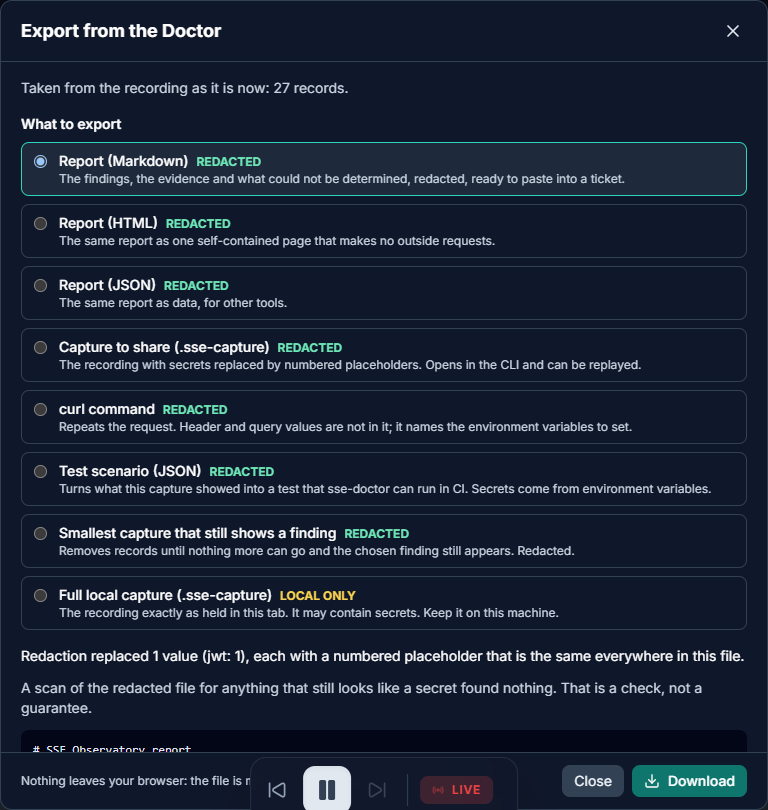
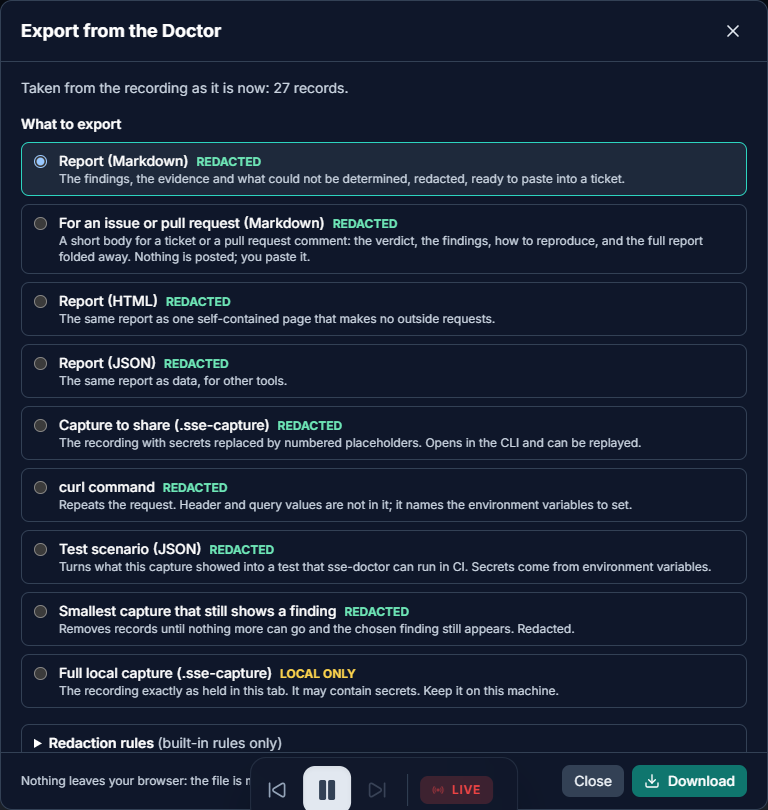
Docs for 2.0.0: clean documentation URLs (the README's docs links were 404 on the hosted site), What's new page, getting started, README testing and re-measured performance, refreshed Doctor screenshots, and a live smoke test (npm run smoke:live)

Changed region(s): [[0.0312, 0.2469, 0.9688, 0.9259]]

diff --git a/src/tests/docsSite.test.ts b/src/tests/docsSite.test.ts
@@ -1,0 +1,99 @@
+// @vitest-environment node
+import { spawn, type ChildProcess } from 'node:child_process'
+import fs from 'node:fs'
+import net from 'node:net'
+import os from 'node:os'
+import path from 'node:path'
+import { afterAll, beforeAll, describe, expect, it } from 'vitest'
+
+// The live check of the hosted site (scripts/live-smoke.mjs, v2.0.0 release) found that the README and the docs link to pages WITHOUT ".html"
+// (https://sse-observatory.vercel.app/docs/technical/limitations) and that the hosted site answered 404 for every one of them: VitePress writes
+// limitations.html, and neither Vercel nor the Express server served a file without its extension. The documentation links are clean URLs, so the hosts
+// must serve them: Vercel with "cleanUrls", the Express server (the Docker image and `npm start`) with static "extensions". The server test runs
+// the real server.js over a small built site.
+
+const root = process.cwd()
+const read = (p: string): string => fs.readFileSync(path.join(root, p), 'utf8')
+
+describe('the documentation links are clean URLs, so the hosts serve them without .html', () => {
+    it('Vercel serves a .html file at its clean URL', () => {
+        expect(JSON.parse(read('vercel.json')).cleanUrls).toBe(true)
+    })
+
+    it('VitePress writes its own links as clean URLs', () => {
+        expect(read('docs/.vitepress/config.mts')).toMatch(/cleanUrls:\s*true/)
+    })
+
+    it('every link to the hosted documentation in the README and the docs points at a page that exists', () => {
+        const pages = new Set<string>()
+        const walk = (dir: string): void => {
+            for (const entry of fs.readdirSync(path.join(root, dir), { withFileTypes: true })) {
+                if (entry.name === '.vitepress' || entry.name === 'node_modules') continue
+                const rel = `${dir}/${entry.name}`
+                if (entry.isDirectory()) walk(rel)
+                else if (entry.name.endsWith('.md')) pages.add(rel.replace(/^docs\//, '').replace(/\.md$/, '').replace(/(^|\/)index$/, '$1'))
+            }
+        }
+        walk('docs')
+        // files in docs/public are served as they are, at /docs/<their path>
+        const walkPublic = (dir: string): void => {
+            for (const entry of fs.readdirSync(path.join(root, dir), { withFileTypes: true })) {
+                const rel = `${dir}/${entry.name}`
+                if (entry.isDirectory()) walkPublic(rel)
+                else pages.add(rel.replace(/^docs\/public\//, ''))
+            }
+        }
+        walkPublic('docs/public')
+        const files = ['README.md', ...[...pages].filter((p) => fs.existsSync(path.join(root, `docs/${p === '' || p.endsWith('/') ? `${p}index` : p}.md`))).map((p) => `docs/${p === '' || p.endsWith('/') ? `${p}index` : p}.md`)]
+        const broken: string[] = []
+        for (const file of files) {
+            const text = read(file)
+            for (const m of text.matchAll(/https:\/\/sse-observatory\.vercel\.app\/docs\/([A-Za-z0-9_\-./]*)/g)) {
+                const target = m[1]!.replace(/\.html$/, '').replace(/\/$/, '')
+                if (target !== '' && !pages.has(target)) broken.push(`${file}: /docs/${m[1]}`)
+            }
+        }
+        expect(broken).toEqual([])
+    })
+})
+
+describe('server.js serves the built documentation at clean URLs', () => {
+    let server: ChildProcess
+    let base = ''
+    let site = ''
+    const freePort = () => new Promise<number>((resolve) => {
+        const s = net.createServer()
+        s.listen(0, '127.0.0.1', () => { const { port } = s.address() as net.AddressInfo; s.close(() => resolve(port)) })
+    })
+
+    beforeAll(async () => {
+        site = fs.mkdtempSync(path.join(os.tmpdir(), 'docs-site-'))
+        fs.mkdirSync(path.join(site, 'dist', 'docs', 'guide'), { recursive: true })
+        fs.writeFileSync(path.join(site, 'dist', 'index.html'), '<!doctype html><title>the app</title>')
+        fs.writeFileSync(path.join(site, 'dist', 'docs', 'index.html'), '<!doctype html><title>docs home</title>')
+        fs.writeFileSync(path.join(site, 'dist', 'docs', 'guide', 'cli.html'), '<!doctype html><title>the cli guide</title>')
+        const port = await freePort()
+        base = `http://127.0.0.1:${port}`
+        server = spawn(process.execPath, [path.join(root, 'server.js')], { cwd: site, env: { ...process.env, NODE_ENV: 'production', PORT: String(port) }, stdio: 'ignore' })
+        for (let i = 0; i < 200; i++) {
+            try { await fetch(`${base}/healthz`); return } catch { await new Promise((r) => setTimeout(r, 250)) }
+        }
+        throw new Error('server.js did not start')
+    }, 60_000)
+    afterAll(() => { server?.kill() })
+
+    const title = async (p: string): Promise<{ status: number; title: string }> => {
+        const r = await fetch(`${base}${p}`)
+        return { status: r.status, title: /<title>([^<]*)<\/title>/.exec(await r.text())?.[1] ?? '' }
+    }
+
+    it('a page without its extension is the page, not the app', async () => {
+        expect(await title('/docs/guide/cli')).toEqual({ status: 200, title: 'the cli guide' })
+    })
+
+    it('the same page with its extension, the docs home and the app itself are unchanged', async () => {
+        expect(await title('/docs/guide/cli.html')).toEqual({ status: 200, title: 'the cli guide' })
+        expect(await title('/docs/')).toEqual({ status: 200, title: 'docs home' })
+        expect(await title('/')).toEqual({ status: 200, title: 'the app' })
+    })
+})

diff --git a/server.js b/server.js
@@ -58,7 +58,8 @@ app.get('/api/mock/stream', (req, res) => handleMockStream(req, res, { config })
 
 // Serve the built frontend in production
 if (config.production) {
-    app.use(express.static(path.join(process.cwd(), 'dist')))
+    // `extensions: ['html']`: the documentation is linked without ".html" (docs/guide/cli is docs/guide/cli.html), as Vercel's cleanUrls does.
+    app.use(express.static(path.join(process.cwd(), 'dist'), { extensions: ['html'] }))
     app.get('/{*splat}', (req, res, next) => {
         if (req.path.startsWith('/api')) return next()
         res.sendFile(path.join(process.cwd(), 'dist', 'index.html'))

diff --git a/README.md b/README.md
@@ -3,8 +3,10 @@
 <div align="center">
   <img src="./public/logo.png" alt="SSE Observatory Logo" width="160" style="border-radius: 20px;"/>
   <h3>Real-Time Observability for Server-Sent Event Streams</h3>
-  <p><a href="https://sse-observatory.vercel.app">Live demo</a> · <a href="https://sse-observatory.vercel.app/docs/">Documentation</a></p>
+  <p><a href="https://sse-observatory.vercel.app">Live demo</a> · <a href="https://sse-observatory.vercel.app/docs/">Documentation</a> · <a href="https://github.com/Ujjwaljain16/SSE-Observatory/releases/tag/v2.0.0">v2.0.0 release notes</a></p>
 </div>
+
+> **Version 2.0.0 (2026-11-15): the Stream Doctor.** Besides the live viewer, the app now says *why* a stream is stuck, late or losing events, with the evidence, and the `sse-doctor` command line turns a captured failure into a CI test. What changed, and what you may notice: [What's new in 2.0](https://sse-observatory.vercel.app/docs/guide/whats-new). How it was tested, and what was not: [the testing campaign](https://sse-observatory.vercel.app/docs/technical/testing-campaign).
 
 ## 1. Overview of the Problem Solved
 
@@ -90,7 +92,9 @@ What it will not pretend to know (the full list is in [Known limitations](https:
 - **No findings is not proof of health.** Checks that had nothing to look at are listed as *not evaluated*.
 - The app records what happened on the wire, not what events said, so exports hold no event bodies, and a replay uses placeholders of the original size.
 - Captures saved in the browser are not redacted; only an export goes through redaction, and its scan is a check, not a guarantee.
-- The command line is built to be publishable and is not published.
+- The command line is built to be publishable and is not published (the version it reports is 2.0.0; the checklist for the day it is published is [Publishing sse-doctor](https://sse-observatory.vercel.app/docs/technical/publishing)).
+- The scrub the command line applies to its own output recognises the secrets you give it in several encodings, not all of them. [The list](https://sse-observatory.vercel.app/docs/guide/cli) says which, and detection is not complete.
+- The live views show raw values as received (they say so on screen, and copying one asks first); every export is redacted.
 
 ## 4. System Architecture
 
@@ -168,7 +172,7 @@ src/
 lib/                 # Server code shared by Express and Vercel: proxy (guard, streamProxy) and mock replay API
 api/                 # Thin Vercel function adapters
 e2e/                 # Playwright specs
-scripts/             # bench.mjs (benchmarks), screenshots.mjs (README images), docs post-build
+scripts/             # bench.mjs (benchmarks), screenshots.mjs (README images), live-smoke.mjs (a deployed site, end to end), cli-contract.mjs and build-check.mjs (the built command line), perf/ and campaign/ (measurements, the results report), docs post-build
 test-servers/        # SSE servers for demos and tests (demo, chaos, multi-stream, patterns, interceptors)
 docs/                # VitePress documentation site
 ```
@@ -184,7 +188,12 @@ npm run test:soak     # long-running memory soak
 npm run build:cli && npm run doctor:selftest   # build the command line and check every shipped rule against its fixtures
 npm run cli:check     # pack the CLI, install the tarball in a clean folder, run it against a stream with canary secrets
 npm run doctor:scenarios   # scenario files against the built-in fixture streams (pass, fail, inconclusive)
+npm run doctor:buildcheck # the built package: file list, size budget, no dependencies, no source paths (run before doctor:scenarios)
+npm run doctor:contract   # the built command line as a process: exit codes, clean stdout, no stack traces, it always stops
+npm run smoke:live        # a real browser against a DEPLOYED site (default the hosted demo; --base <url>): connect through the proxy, the Doctor, an export, the docs
 ```
+
+At the 2.0.0 release the suite was 179 test files and 2,402 tests (statements 84%, branches 73%, functions 76%, lines 86%), the whole Chromium suite (176 tests) passed on an idle machine, and the release-candidate workflow passed on Linux and Windows. Beyond the unit and browser tests, a testing campaign checked the project against independent oracles (the specification's parsing algorithm written out literally, the fixture server's own log of every byte it wrote), the real proxy in the loop, the built command line as a process, and a browser sweep that plants secrets and searches every export. The account, with each defect it found and the commit that fixed it, what it did **not** cover, and how to reproduce every check, is in [docs/technical/testing-campaign.md](docs/technical/testing-campaign.md). Three GitHub workflows run the heavier checks: `ci.yml` on every pull request, `nightly.yml` (the healthy twins in real time with the default thresholds, a flake loop, the suite on Node 20) and `release-candidate.yml` (everything before a release, on the commit that ships).
 
 The unit suite covers the proxy guard and SSRF filter, the SSE parser and client, the query language, the filter engine, patterns, correlation, storage, the sandbox and the worker protocol. The e2e specs drive a real browser through connecting, filtering, interceptor failures (errors, infinite loops, escape attempts), bursts and backpressure, reconnect storms, multi-tab SharedWorker use, a killed SharedWorker, and mock replay.
 
@@ -217,6 +226,21 @@ Measured the same way (production build, Chrome, `npm run bench -- --doctor all 
 At a realistic rate the Doctor adds nothing the page can feel. In the extreme burst it adds a few short stalls and tens of megabytes of heap (the recording and its copy; it does not keep growing). The first measurement of this build was much worse (timer late p95 about 600 ms, a worst frame near 900 ms): a profile showed that re-sorting a 256-sample window every time a rule asked for a quantile took about three of eight seconds of main-thread time, and keeping the window sorted as samples arrive removed it.
 
 What this does not show: the plan's target of "under 2% CPU at 500 events/s" **is not demonstrated**. The main thread is busy 70 to 98% of the time in every variant (rendering 500 rows a second dominates), the run-to-run spread is about ten points, and the SharedWorker's own work is not in the figure, so a difference of two points cannot be seen. Per record, the engine costs about 13 microseconds (50,000 records in 650 ms the first time, a refresh with 100 new records in about 2 ms); at 1,500 records a second that is about 2% of one core, which is the basis for the target but not a measurement of it.
+
+#### Re-measured for 2.0.0
+
+Both figures above were measured on the October development build. For the release the same measurements were repeated on the release code (Chrome 157, an i5-13450HX laptop with 16 logical CPUs, Windows 11, the machine otherwise idle, 2026-11-15, production build, medians of five runs):
+
+| scenario | Doctor | timer late p95 | long frames | worst frame | heap growth |
+|---|---|---|---|---|---|
+| 20k-event burst, reconnecting every second | off | 13 ms | 0 | 0 ms | +32 MB |
+| | closed | 20 ms | 5 (357 ms in total) | 97 ms | +50 MB |
+| | open | 18 ms | 6 (440 ms) | 101 ms | +59 MB |
+| sustained ~500 events/s | off | 4 ms | 0 | 0 ms | +24 MB |
+| | closed | 4 ms | 0 | 0 ms | +25 MB |
+| | open | 9 ms | 0 | 0 ms | +21 MB |
+
+The October table is **not reproduced exactly**: the burst stalls are about the same or milder, but with the panel open at 500 events/s the main thread was busier (91% against 74% with the Doctor off) and the p95 timer lateness doubled; the machine and the Chrome version differ, and the runs vary by about ten points, so this is a difference to look at, not a measured regression. A Node micro-benchmark of the per-record cost (`npm run perf:record-cost`, 200,000 records, median of 15 runs) gives **0.49 µs** to record an observation, **0.52 µs** for `engine.feed` with the 15 shipped rules, 0.41 µs per record for the worker-to-page `structuredClone` of a batch of 10, and **3.96 µs** per record for the Doctor's sync of 100 new records while 50,000 are held: **about 4.9 µs per record added by the Doctor, against the 13.3 µs that 2% of one core at 1,500 records a second allows**. The "about 13 microseconds" in the paragraph above was a first-run figure, not this warm one; this benchmark is Node, not the browser, its stream is steady and rule-light, and the sync figure is mostly the copy of the held records, so it grows with what is held. The "under 2% CPU at 500 events/s" target is still **not demonstrated end to end**.
 
 Reproduce with `npm run bench` (add `-- --throttle 4` for the slow-CPU run, `-- --app http://localhost:3100` to target a production build). Numbers vary by machine and from run to run; the budget the pipeline is built around is: no main-thread stall longer than a few frames, flat memory, and the first row on screen almost immediately.
 

diff --git a/docs/guide/whats-new.md b/docs/guide/whats-new.md
@@ -1,0 +1,33 @@
+# What's new in 2.0
+
+SSE Observatory 2.0.0 (released 2026-11-15) keeps everything v1 did (the live viewer, the query language, multi-stream, interceptors, patterns, the mock server) and adds the part that answers the harder question: **why is this stream stuck, late or losing events?** The loop it is built around is **Inspect, Diagnose, Reproduce, Test, Monitor**, in the app and on the command line.
+
+## New
+
+- **[Stream Doctor](/guide/stream-doctor)** in the app: a live health strip and findings that keep what was *observed* apart from what is only *inferred* ("Likely: ...", with the other explanations and a command to check next). Fifteen rules cover status and content type, framing, first-event timing, silences, bursts, reconnect loops, resume with `Last-Event-ID`, sequence gaps and duplicates, heartbeats, slow consumers, credentials in the request, proxy masking, clock jumps and payload format changes. "No findings" is never presented as proof of health, and a check that could not be judged says so.
+- **[The `sse-doctor` command line](/guide/cli)** (Node 20 or newer): `probe`, `analyze`, `report`, `compare`, `curl`, `redact`, `repro`, `test`, `replay`, `fixtures`, `validate`, `selftest` and `env-diff`, with exit codes for CI, JSON output that has [published schemas](https://sse-observatory.vercel.app/docs/schemas/sse-cli-output-1.json), and JUnit and Markdown output.
+- **[Scenarios and CI](/guide/cli-ci)**: a captured failure becomes a regression test. A scenario can carry `expect.max_silence_ms` to catch a stall, a scenario made from a bad response expects the healthy one (and says it verifies the fix), and an explicit `reconnect` step controls the reconnect (its delay, and whether the cursor is sent).
+- **[The capture format](/technical/capture-format)** (`.sse-capture`, version 2) with an integrity hash, [redaction](/guide/redaction-policy) before anything leaves your machine, and import of v1 recordings.
+- **[Proxy diagnostics](/technical/proxy-diagnostics)**: the server proxy tags its own output so the Doctor can tell the upstream from the proxy, rewrites an upstream's look-alike tags so an upstream cannot pass as the proxy, and with `PROXY_DIAGNOSTICS=0` writes no `sse-proxy` text and no `X-SSE-*` header at all.
+- **A fixture server** with a ground-truth log of every byte it wrote, dozens of faulty streams and their healthy twins, used by the project's own tests and by `sse-doctor fixtures`.
+
+## Behaviour you may notice
+
+- A stall that a later connection recovered from is shown as resolved and kept as history. A stream whose rhythm genuinely changes (three consistent slow gaps in a row) is recognised, with an informational "cadence changed" note, unless a declared `expected.maxSilenceMs` forbids it.
+- The proxy's own error notice is an SSE comment, not an `error` event, so the application never sees an event the upstream did not send.
+- The command line **refuses** a redirect to another origin while credentials are attached (`--follow-redirects` opts in, and the credentials still never go to the other origin), refuses `--no-redact` together with secret options, and refuses a capture whose `seq` repeats or goes down or whose `t` goes backwards. [Why](/guide/cli).
+- `sse-doctor replay` replays a capture exported from the app as a labelled **synthetic** replay (placeholder bodies of the recorded size), never as byte-exact. A v1 recording replays with its original SSE id and event name, never its internal storage id.
+- The Timeline numbers rows by connection and shows the retry counter in its own column. The live views are labelled "Raw values — as received, not redacted." and copying a raw event value asks first.
+- `npm run build:cli` builds the command line as version 2.0.0. It is **not published to npm**; [the checklist](/technical/publishing) is ready for the day that changes.
+
+## How it was tested
+
+A testing campaign ran before the release: independent oracles (the WHATWG parsing algorithm written out literally, the fixture server's own log), the real proxy in the loop, the built command line as a process, a browser sweep that plants secrets and searches every export, boundary tables for every threshold, and a journey test from the browser to the command line. It found and fixed about twenty defects and recorded every decision, with the commit that fixed it. The account, what it did **not** cover, and how to reproduce each check are in [the testing campaign](/technical/testing-campaign).
+
+After the release, the deployed site is checked end to end with `npm run smoke:live` (a real browser against the hosted demo: connect through the proxy, open the Doctor, export a report, check the documentation).
+
+## Known limits
+
+- The command-line scrub does not detect every encoding of a secret. The [CLI guide](/guide/cli) lists what it covers and what it does not. Detection is not complete.
+- The "under 2% CPU at 500 events/s" target is not demonstrated; see the [measurements](https://github.com/Ujjwaljain16/SSE-Observatory#10-performance).
+- Not covered: a real screen reader, Safari and mobile, a real CDN or reverse proxy that buffers, the Vercel runtime beyond a smoke test, long soak runs and real network faults. See [Known limitations](/technical/limitations).

diff --git a/docs/guide/getting-started.md b/docs/guide/getting-started.md
@@ -34,3 +34,23 @@ In another terminal:
 Run `npm run dev:all` to start the app and the chaos server together. More scenarios live in `test-servers/` (multi-stream, patterns, interceptors).
 
 Local test servers are reachable through the proxy in development. In production the proxy refuses private addresses, so connect directly or self-host with `ALLOW_PRIVATE_TARGETS=1`.
+
+## Find out why a stream misbehaves (new in 2.0)
+
+1. Connect to the stream as above, then open **Doctor** (the button beside the event list). The health strip says whether the connection is open, when the last byte and the last event arrived, and how many reconnects there were. Findings appear as the stream shows a problem, each with what was observed, what is only inferred and a command to check next. [Details](/guide/stream-doctor).
+2. To keep the evidence, choose **Export...**: a report, a shareable capture (redacted before it leaves the page), a curl command, or a test scenario that fails while the problem is there and passes when it is fixed.
+3. The same checks run on the command line, for CI and for streams you cannot open in a browser:
+
+```sh
+npm run build:cli
+npm run doctor -- probe https://example.com/stream --duration 30 --out incident.sse-capture
+npm run doctor -- analyze incident.sse-capture
+npm run doctor -- fixtures list        # the built-in faulty streams and their healthy twins, to try every rule
+```
+
+See [the command line](/guide/cli) and [Scenarios and CI](/guide/cli-ci). What changed in this release is on [What's new in 2.0](/guide/whats-new).
+
+## Try the hosted demo
+
+The hosted demo at `https://sse-observatory.vercel.app` runs the same app. Its proxy relays public streams only (it refuses private and cloud-metadata addresses), so a public stream such as `https://stream.wikimedia.org/v2/stream/recentchange` works there, and the mock replay API is off on that deployment. To check that a deployment works end to end, run `npm run smoke:live` (a real browser against `--base <url>`).
+

diff --git a/docs/index.md b/docs/index.md
@@ -14,6 +14,9 @@ hero:
       text: Get Started
       link: /guide/getting-started
     - theme: alt
+      text: What's new in 2.0
+      link: /guide/whats-new
+    - theme: alt
       text: View Architecture
       link: /technical/architecture
 
@@ -29,7 +32,9 @@ features:
   - title: VCR Mock Server & Replay
     details: Export production incidents as `.sse-record` files, upload them, and time-travel replay the exact bug with pixel-perfect deterministic timing.
   - title: Stream Doctor
-    details: Says why a stream is stuck, late or losing events, with the evidence, and turns a captured failure into a regression test. In the app and on the command line.
+    details: Says why a stream is stuck, late or losing events, with the evidence, and turns a captured failure into a regression test. In the app and on the command line. New in 2.0.
+  - title: Tested, and honest about it
+    details: A testing campaign with independent oracles, the real proxy in the loop and the built command line as a process, found and fixed about twenty defects before 2.0. What it did not cover is written down too.
   - title: Dynamic Schema Inference
     details: Feed in raw JSON blobs and the engine will detect value frequencies, types, and recursive object mappings to generate a living TypeScript Interface.
 ---

diff --git a/docs/technical/publishing.md b/docs/technical/publishing.md
@@ -16,9 +16,8 @@ dependencies, and that no canary appears in any output. CI runs it on Ubuntu and
 
 ## Before the first publish
 
-- [ ] **Choose and check the public name.** It is not claimed or checked yet. Look it up on the registry, consider a scope, and
-  change `PACKAGE_NAME` in `scripts/build-cli.mjs`.
-- [ ] **Decide the version policy.** The CLI, the capture format (`2.x`) and the scenario schema (`1`) version separately. A
+- [ ] **Choose and check the public name.** The name `sse-doctor` was looked up on the registry on 2026-11-15 and was not taken (a lookup that finds nothing is not a claim: check again on the day, and consider a scope). To change it, change `PACKAGE_NAME` in `scripts/build-cli.mjs`.
+- [ ] **Decide the version policy.** The build writes version `2.0.0`, the same as the repository's release tag `v2.0.0`. The CLI, the capture format (`2.x`) and the scenario schema (`1`) version separately. A
   breaking change to a format is a major version of that format; the analyzer version is written into every capture.
 - [ ] **Read the package README** (`dist-cli/README.md`) as a stranger would: what it is, one command that works, the exit
   codes, what it cannot tell you.

diff --git a/docs/technical/testing-campaign.md b/docs/technical/testing-campaign.md
@@ -1,6 +1,6 @@
 # Testing campaign
 
-What has been tested beyond the ordinary unit and end-to-end tests, what it found, what is still open, and what has not been done. This page is kept up to date as the campaign goes on; every claim here can be checked with the command or the file named next to it.
+What has been tested beyond the ordinary unit and end-to-end tests, what it found, what is still open, and what has not been done. **Status: the campaign ended with the release of v2.0.0 on 2026-11-15**; every decision it raised was taken by the owner and is implemented (the table under "Owner decisions"), and the release gate is under "Release readiness". After the release, the deployed site is checked end to end with `npm run smoke:live`. Every claim here can be checked with the command or the file named next to it.
 
 The campaign's idea: more tests of the same shape find few bugs, so it uses **independent oracles** (the WHATWG algorithm written out literally, the fixture server's own log, a strict XML parser, the specification's own examples), **real processes** (the built command line), and **tables that pin every threshold at its edge**. Each defect gets a failing test before its fix.
 
